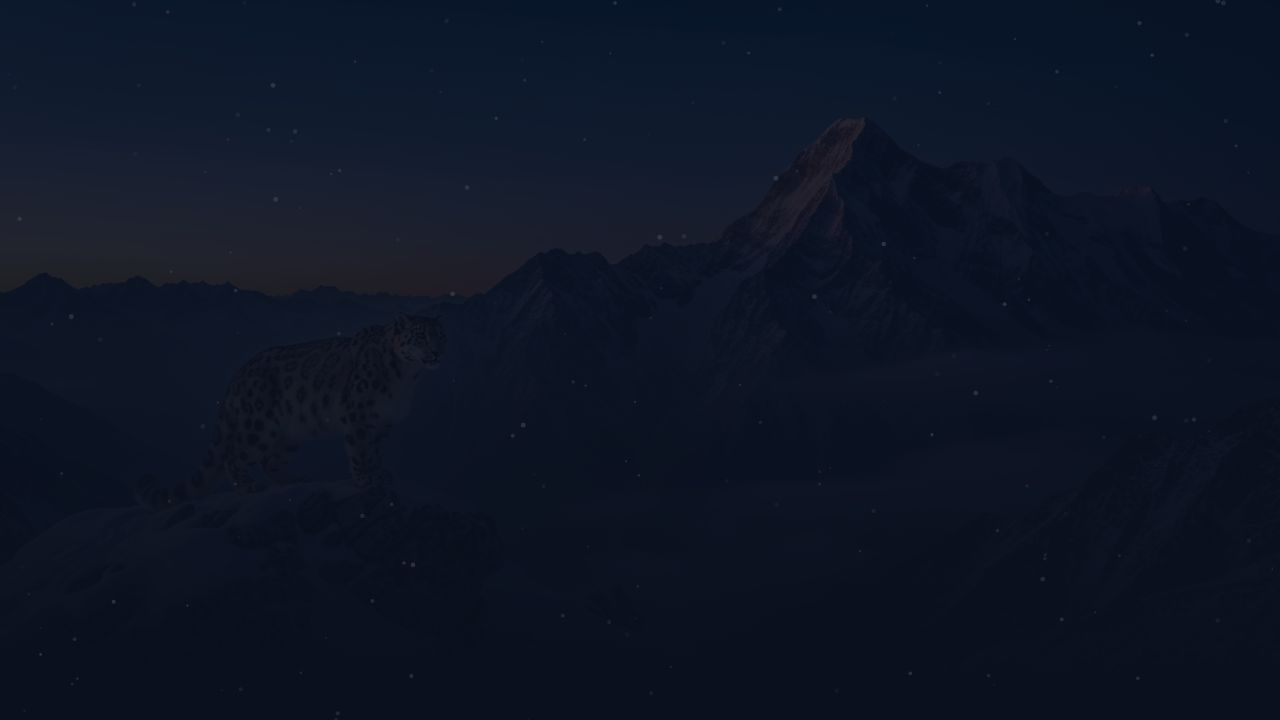
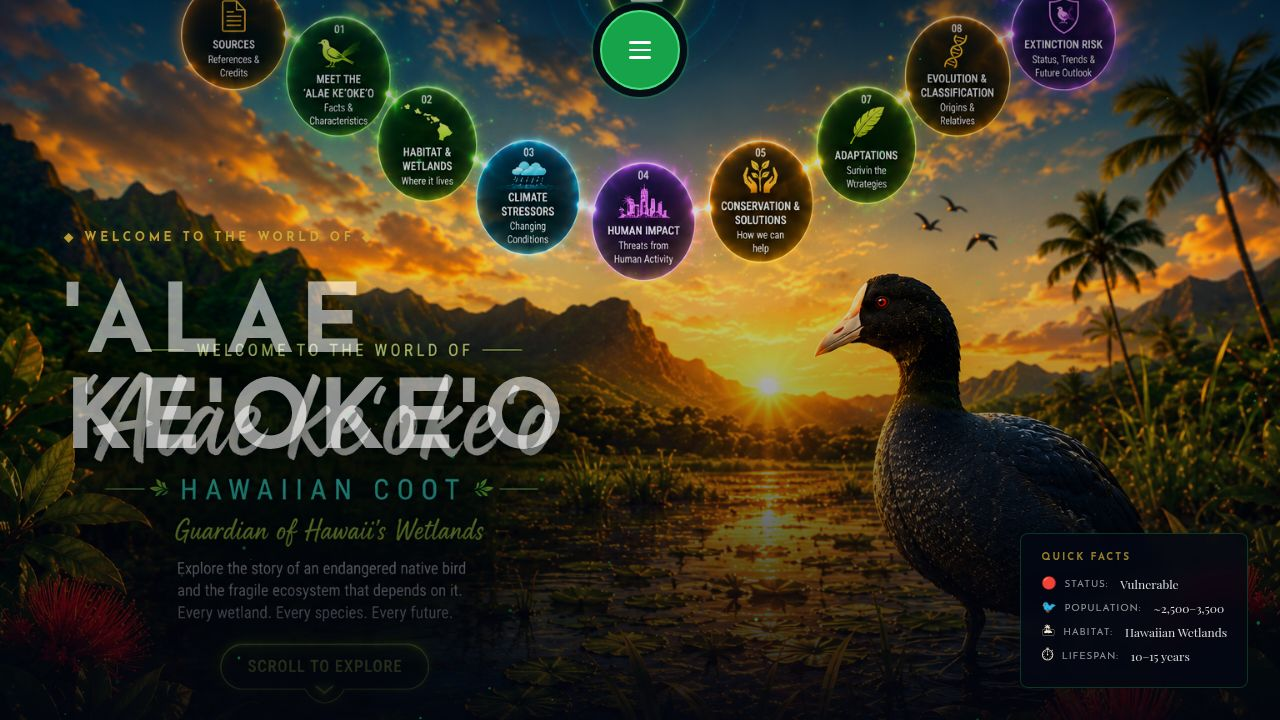
Refine visual elements and improve connector pathing for navigation
Update constants and SVG path logic in DomeNav.tsx to adjust backdrop dimensions, ensure flush alignment with the hamburger icon, and optimize connector routes for both outer and inner circles.

Replit-Commit-Author: Agent
Replit-Commit-Session-Id: 0ff26819-c633-4658-b6ec-ffe6207de2a2
Replit-Commit-Checkpoint-Type: full_checkpoint
Replit-Commit-Event-Id: 9e1d4532-c2e0-42e1-9c6b-14d9f33e3922
Replit-Commit-Screenshot-Url: https://storage.googleapis.com/screenshot-production-us-central1/4442b8b5-b8de-4d68-9461-7d0d43422ef1/0ff26819-c633-4658-b6ec-ffe6207de2a2/SQw38rb
Replit-Helium-Checkpoint-Created: true

diff --git a/artifacts/endangered-species/src/components/DomeNav.tsx b/artifacts/endangered-species/src/components/DomeNav.tsx
@@ -59,17 +59,44 @@ const PW    = 224;
 const PH    = 52;
 const PGAP  = 12;
 
-// The SVG coordinate system has (0,0) at the hamburger center.
-// All (x,y) positions below are in that SVG space.
+// ── Backdrop dimensions ──────────────────────────────────────────────────────
 //
-// Lowest circle bottom:  y = 152 + 42 = 194  (SVG space)
-// Bottom connector rail: y = 208              (below all circles)
-// Sub-items top:         y = 224              (a gap below the rail)
-// Sub-items in wrap:     top = 224 + HALF = 264
+// To get UNIFORM spacing from every circle to the dome boundary, the backdrop
+// must be a perfect circle centred on the hamburger with radius = R+IHLF+GAP.
+//
+//   R + IHLF = 158 + 42 = 200   (farthest point of any circle from hamburger)
+//   GAP      = 20                (desired uniform gap)
+//   DOM_R    = 220               (dome circle radius)
+//
+// CSS makes a perfect semicircle when border-radius == half the element width.
+//   backdrop width  = 2 × DOM_R = 440px
+//   border-radius   = "0 0 220px 220px"
+//
+// The backdrop top aligns exactly with the hamburger top (BACKDROP_TOP = 0)
+// so no dark panel peeks above the button.  Height = HALF + DOM_R puts the
+// dome arc DOM_R below the hamburger centre; circles bottom at ~232 fits
+// inside (232 < 260).
+//
+const DOM_R          = 220;           // dome radius (uniform spacing from all circles)
+const BACKDROP_W     = DOM_R * 2;     // 440px
+const BACKDROP_TOP   = 0;             // px — backdrop top flush with hamburger top
+const BACKDROP_H_SEMI = HALF + DOM_R; // 260 — arc bottom is DOM_R below hamburger centre
 
-const RAIL_Y  = 208;   // horizontal bottom rail for L-connector
-const SUB_SVG = 228;   // sub-items top in SVG space (HALF below = wrap y 268)
-const SUB_Y   = SUB_SVG + HALF; // = 268  — CSS top of sub-item container in wrap space
+// ── Connector geometry (SVG space — origin at hamburger centre) ───────────────
+//
+// The L-connector routes:
+//   1. From active circle centre → OUT to the circle's outer wall (horizontal)
+//   2. DOWN the outer wall to the bottom rail
+//   3. ACROSS the bottom rail to centre-x=0
+//   4. DOWN to sub-items top
+//
+// The first segment (centre→outer-wall) is hidden behind the active circle
+// (circles are z:10000, connector SVG is z:9999).  Every other segment is
+// fully outside all circle areas → the line never crosses any other circle.
+//
+const RAIL_Y  = 210;                   // SVG: horizontal bottom rail (below circle bottoms at 194)
+const SUB_SVG = RAIL_Y + 22;           // SVG: sub-items top (232 = RAIL_Y + 22)
+const SUB_Y   = SUB_SVG + HALF;        // wrap: CSS top of pill container (272)
 
 /** Downward semicircle */
 function arcPos(i: number) {
@@ -79,59 +106,77 @@ function arcPos(i: number) {
 const POSITIONS = GROUPS.map((_, i) => arcPos(i));
 
 /**
- * Build the L-shaped connector path (in SVG space, origin = hamburger center).
+ * Build the L-connector path (SVG space, origin = hamburger centre).
  *
- * Route: circle bottom → straight down → rounded corner → horizontal along bottom
- *        rail → rounded corner → drop to sub-items center.
+ * Route for outer/mid circles (|x| >= 55):
+ *   A. circle centre → outer wall x  (horizontal, hidden behind active circle z:10000)
+ *   B. outer wall down to rail y      (vertical, fully outside all other circles)
+ *   C. rail x across to centre        (horizontal, below all circles)
+ *   D. centre down to sub-items top   (vertical drop)
  *
- * Circles are z-indexed ABOVE the connector SVG, so where the line geometrically
- * passes through a circle's area the circle button is drawn on top — creating the
- * visual impression that the connector routes "around" them.
+ * Route for inner circles (|x| < 55, i=2/3):
+ *   Same L-shape but shorter horizontal leg since the circle is near centre.
+ *   A. circle bottom straight down to rail y
+ *   B. horizontal to centre (with rounded corner)
+ *   C. drop to sub-items
+ *
+ * Outer-wall x = cx ± IHLF — this guarantees the DOWN leg never enters any
+ * other circle because it runs along the absolute outer edge of the arc.
  */
 function connectorPath(x: number, y: number): string {
-  const startY = y + IHLF;
-  const railY  = RAIL_Y;
-  const endY   = SUB_SVG;
-  const r      = 18;
+  const r    = 18;   // corner radius
+  const rail = RAIL_Y;
+  const end  = SUB_SVG;
 
-  // Centre circles (i=2/3 at x≈±49): near-straight drop
   if (Math.abs(x) < 55) {
-    return `M ${x} ${startY} Q ${x} ${railY} 0 ${endY}`;
-  }
-
-  const sign = x < 0 ? 1 : -1;   // +1 → left circle (turns rightward), -1 → right
-
-  // For the deepest circles (y=152), startY=194 may already be past railY-r=190.
-  // Skip the explicit vertical leg in that case — go straight to the corner.
-  const hasTurn = startY < railY - r;
-
-  if (hasTurn) {
+    // ── Inner circles (i=2, i=3) ─────────────────────────────────────────────
+    // Drop from circle bottom, then a single smooth Q arc curves directly to
+    // the rail centre (no awkward short horizontal rail segment).
+    // Tangent at start = straight down; tangent at end = horizontal → clean arc.
+    const startY = y + IHLF;
     return [
       `M ${x} ${startY}`,
-      `L ${x} ${railY - r}`,
-      `Q ${x} ${railY} ${x + sign * r} ${railY}`,
-      `L ${-sign * r} ${railY}`,
-      `Q 0 ${railY} 0 ${railY + r}`,
-      `L 0 ${endY}`,
-    ].join(" ");
-  } else {
-    // Circle bottom is already at/below the turn — shorter path, no upward leg
-    return [
-      `M ${x} ${startY}`,
-      `Q ${x} ${railY} ${x + sign * r} ${railY}`,
-      `L ${-sign * r} ${railY}`,
-      `Q 0 ${railY} 0 ${railY + r}`,
-      `L 0 ${endY}`,
+      `L ${x} ${rail - r}`,
+      `Q ${x} ${rail} 0 ${rail}`,
+      `L 0 ${end}`,
     ].join(" ");
   }
+
+  // ── Outer / mid circles (i=0, i=1, i=4, i=5) ──────────────────────────────
+  const sign  = x < 0 ? 1 : -1;   // +1=left circle (routes rightward), -1=right
+  const wallX = x - sign * IHLF;   // outer edge of this circle, e.g. i=0: -158-42=-200
+
+  return [
+    // A: centre → outer wall (hidden inside active circle)
+    `M ${x} ${y}`,
+    `L ${wallX} ${y}`,
+    // B: down outer wall to near rail (note: wall is outside all other circles)
+    `L ${wallX} ${rail - r}`,
+    // C1: rounded corner at bottom-outer
+    `Q ${wallX} ${rail} ${wallX + sign * r} ${rail}`,
+    // C2: horizontal across to near centre
+    `L ${-sign * r} ${rail}`,
+    // D1: rounded corner at bottom-centre
+    `Q 0 ${rail} 0 ${rail + r}`,
+    // D2: drop to sub-items
+    `L 0 ${end}`,
+  ].join(" ");
 }
 
-// Approximate path length for stroke-dasharray animation
+// Approximate path length for the stroke-dasharray draw animation
 function pathLen(x: number, y: number): number {
-  const startY  = y + IHLF;
-  const vertLen = Math.max(0, RAIL_Y - startY);
-  const horizLen = Math.abs(x);
-  return vertLen + horizLen + (SUB_SVG - RAIL_Y) + 80;
+  const r = 18;
+  if (Math.abs(x) < 55) {
+    // inner circle: L(down) + Q(arc to centre) + L(drop)
+    const startY = y + IHLF;
+    const arcEst = Math.sqrt(x * x + r * r) * 1.6;
+    return Math.max(0, RAIL_Y - r - startY) + arcEst + (SUB_SVG - RAIL_Y) + 20;
+  }
+  // outer/mid: horizontal exit + vertical wall + horizontal rail + drop
+  const wallX   = Math.abs(x) + IHLF;   // distance from centre to outer wall
+  const vertLen = RAIL_Y - Math.abs(y); // wall height
+  const horizLen = wallX - r;            // rail length
+  return IHLF + Math.max(0, vertLen) + horizLen + (SUB_SVG - RAIL_Y) + r * 4;
 }
 
 // ─── Intelligence Threads ──────────────────────────────────────────────────────
@@ -223,24 +268,32 @@ export function DomeNav({ onSelect, activeSection, onCloseSection }: Props) {
       <div ref={wrapRef}
         style={{position:"fixed",top:"10px",left:"50%",transform:"translateX(-50%)",width:`${BTN}px`,zIndex:9999}}>
 
-        {/* ── Dome backdrop: SEMICIRCLE when open, RECTANGLE when group active ── */}
+        {/* ── Dome backdrop ─────────────────────────────────────────────────────
+             SEMICIRCLE when open (no active group):
+               width=440, border-radius="0 0 220px 220px" → perfect semicircle
+               with radius 220 centred exactly on the hamburger; every circle
+               is 20px from the edge (R+IHLF+20 = 200+20 = 220 = DOM_R).
+             RECTANGLE when a group is active:
+               Same width, flat-bottomed with rounded corners (0 0 20px 20px),
+               height grows to contain the sub-item pills.
+        ── */}
         <div style={{
           position:"absolute",
-          width:"520px",
-          left:`${-(520/2)+HALF}px`,
-          top:"-10px",
-          // Height grows to contain sub-items when a group is active
-          height: group ? `${SUB_Y + PH*2 + PGAP + 30}px` : "242px",
+          width:`${BACKDROP_W}px`,                       // 440
+          left:`${HALF - BACKDROP_W/2}px`,               // −180
+          top:`${BACKDROP_TOP}px`,                       // −22
+          height: group
+            ? `${SUB_Y + PH*2 + PGAP + 38 - BACKDROP_TOP}px`  // ~446
+            : `${BACKDROP_H_SEMI}px`,                           // ~282
           background:"rgba(3,6,16,0.94)",
-          // KEY: morph from semicircle to flat-bottomed rectangle
-          borderRadius: group ? "0 0 0 0" : "0 0 260px 260px",
+          borderRadius: group ? "0 0 20px 20px" : `0 0 ${DOM_R}px ${DOM_R}px`,
           borderLeft:`1px solid rgba(34,197,94,0.11)`,
           borderRight:`1px solid rgba(34,197,94,0.11)`,
           borderBottom:`1px solid rgba(34,197,94,0.11)`,
           borderTop:"none",
           pointerEvents:"none", zIndex:-1,
           opacity: open ? 1 : 0,
-          transition:"opacity 0.3s ease, height 0.4s cubic-bezier(0.16,1,0.3,1), border-radius 0.35s ease",
+          transition:"opacity 0.3s ease, height 0.42s cubic-bezier(0.16,1,0.3,1), border-radius 0.38s ease",
         }}/>
 
         {/* ── Hamburger ─────────────────────────────────────────────────────── */}